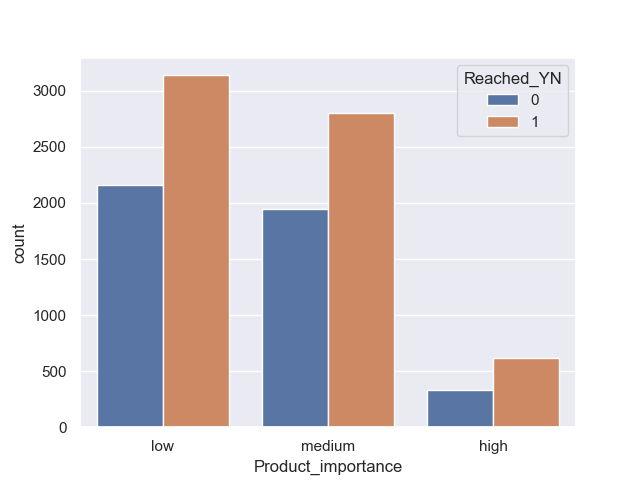
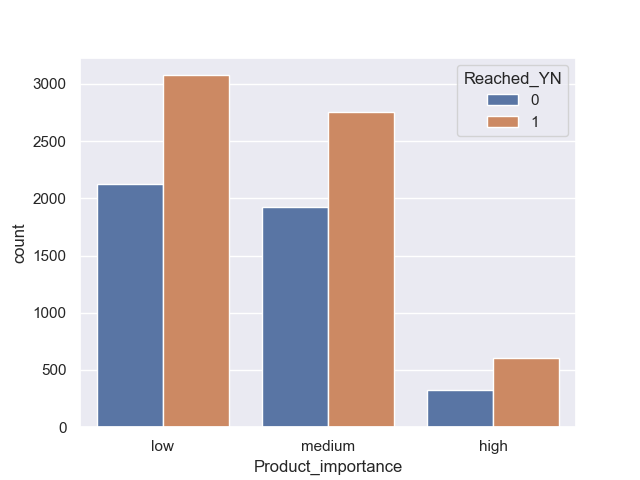
Correlation

diff --git a/EDA.py b/EDA.py
@@ -6,6 +6,7 @@ import numpy as np
 import math
 import dataframe_image as dfi
 import matplotlib.pyplot as plt
+from sklearn.neighbors import LocalOutlierFactor
 
 ''' Pre-processing Step '''
 # 1. Loading Dataset
@@ -37,6 +38,21 @@ NaN_df = pd.concat([all_NaN_values, percent_NaN], axis=1, keys=[
 """ Nous voyons qu'il n'y a pas de valeurs invalides, nous pouvons donc poursuivre l'exploration."""
 print(NaN_df)
 dfi.export(NaN_df, "Outputs/NaNDf_percent.png")
+
+# Drop the Outliers
+cont_var = list(data.select_dtypes(exclude=['object']).columns)
+clf = LocalOutlierFactor(n_neighbors=3)
+outliers = clf.fit_predict(data[cont_var])
+
+unique, counts = np.unique(outliers, return_counts=True)
+dict(zip(unique, counts))
+data['outliers']=outliers
+outliers_index=list(data[data['outliers']==-1].index)
+# Remove the outliers
+for o in outliers_index:
+      data.drop(index=o,inplace=True)
+
+data.drop('outliers', axis = 1, inplace = True)
 
 # 3. Describe the Features
 print(data.describe(include=np.number))  # Continuous variables
@@ -102,4 +118,3 @@ plt.figure(figsize=(16, 16), dpi=100)
 sns.heatmap(data.corr())
 ax_ = sns.heatmap(data_corr.corr(), annot=True, vmin=-1)
 ax_.figure.savefig('Outputs/CorrelationHeadmap.png')
-

diff --git a/Model.py b/Model.py
@@ -45,3 +45,4 @@ print('Classification Report of train_data \n',
       classification_report(train_label, train_pred))
 print('Classification Report of test_data \n',
       classification_report(test_label, test_pred))
+
